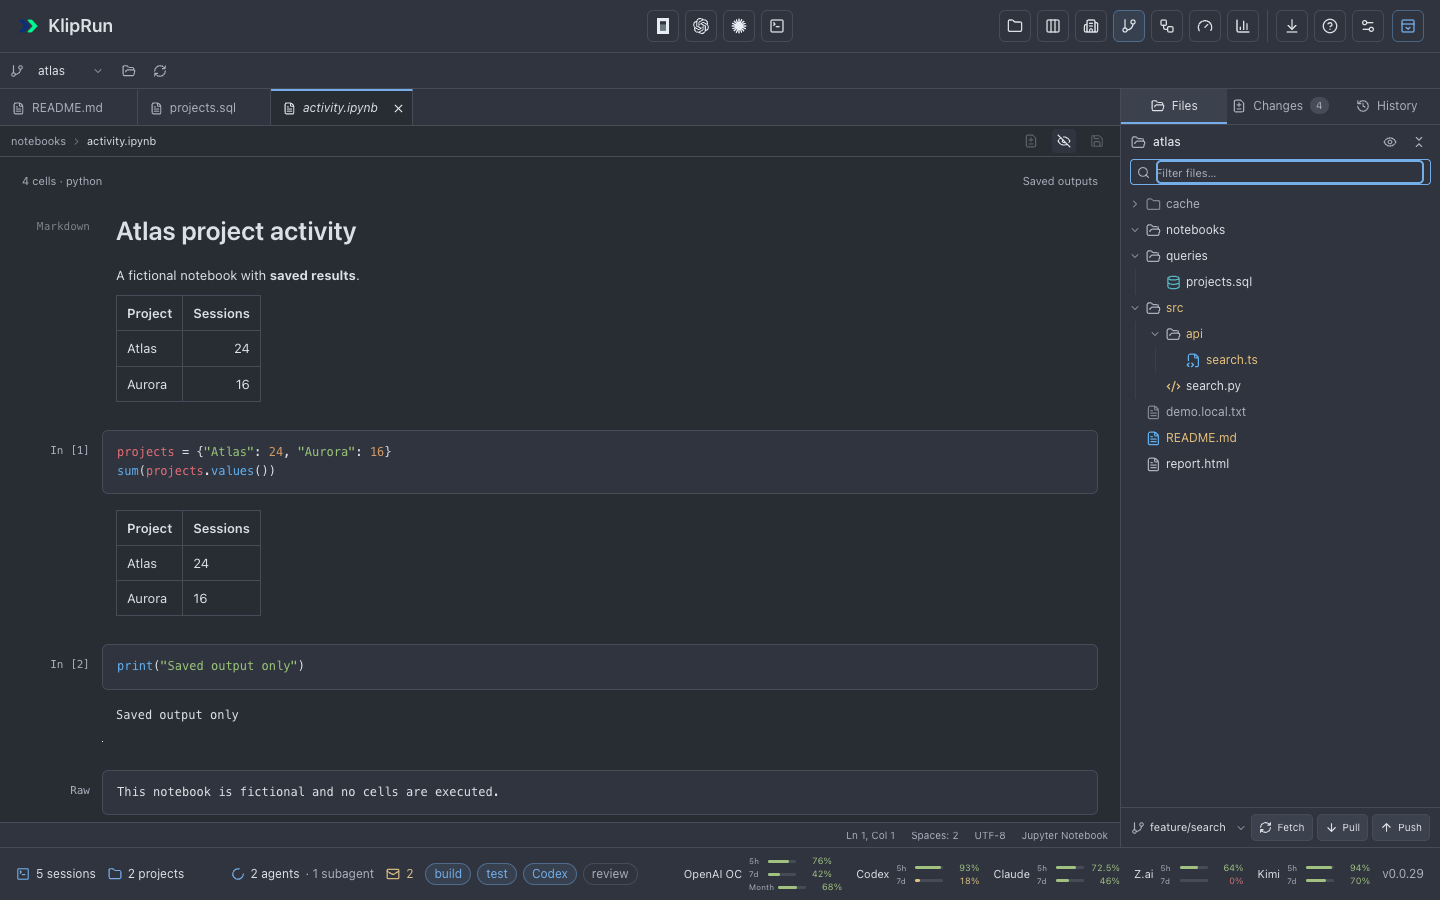
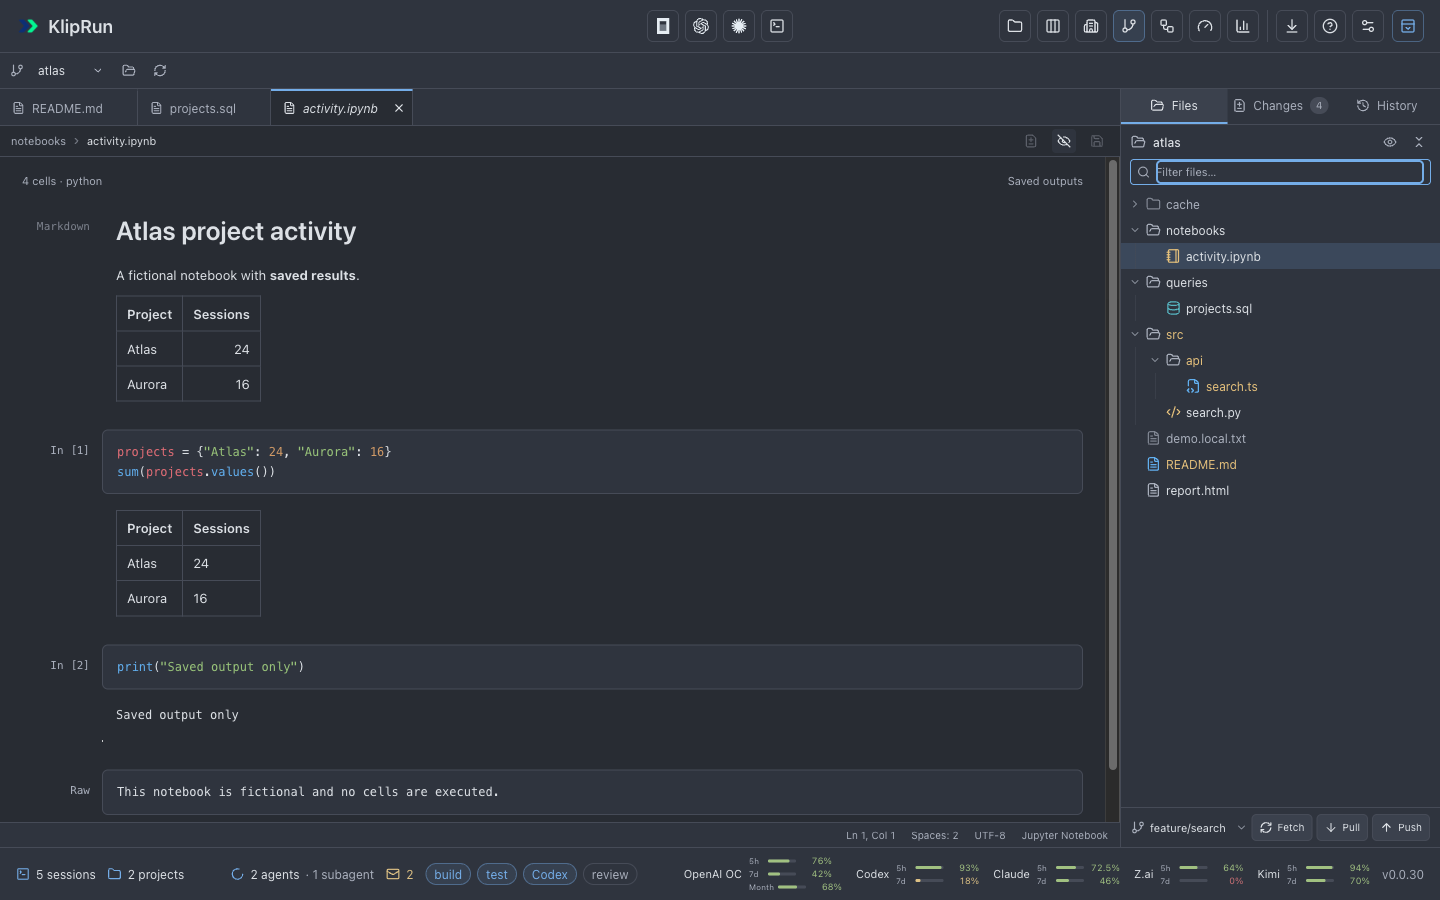
release/0.0.30: Подготовить версию и обновить скриншоты

diff --git a/docs/screenshots/capture-all.js b/docs/screenshots/capture-all.js
@@ -10,7 +10,7 @@ async (page, directory = "docs/screenshots", base = "http://127.0.0.1:18796") =>
     await page.goto(`${base}${path}`);
     if (!path.startsWith("/__demo/")) {
       await page.locator('[data-testid="version"]').waitFor();
-      if ((await page.locator('[data-testid="version"]').innerText()) !== "v0.0.29") throw new Error("Build the 0.0.29 client before capturing.");
+      if ((await page.locator('[data-testid="version"]').innerText()) !== "v0.0.30") throw new Error("Build the 0.0.30 client before capturing.");
     }
   }
   async function save(name) {

diff --git a/docs/screenshots/README.md b/docs/screenshots/README.md
@@ -1,6 +1,6 @@
 # Demo screenshots
 
-All twenty-one current screenshots were captured from **KlipRun Desktop 0.0.29** on **2026-10-19**, using Graphite. The original palette is named Midnight. Session IDs, titles, project paths, models, priority flags, Git metadata, quotas, and usage totals come only from [`mock-api.json`](mock-api.json). The preview fixes the clock to the fixture’s `board.generated_at` (2026-10-14), supplies a stub desktop bridge, and disables Office motion. No live engine, user session store, credentials, quota API, or agent process is used.
+All twenty-one current screenshots were captured from **KlipRun Desktop 0.0.30** on **2026-10-19**, using Graphite. The original palette is named Midnight. Session IDs, titles, project paths, models, priority flags, Git metadata, quotas, and usage totals come only from [`mock-api.json`](mock-api.json). The preview fixes the clock to the fixture’s `board.generated_at` (2026-10-14), supplies a stub desktop bridge, and disables Office motion. No live engine, user session store, credentials, quota API, or agent process is used.
 
 | File | Size | Example shown |
 | --- | --- | --- |
@@ -44,7 +44,7 @@ tracked exceptions in ignored folders, state restoration, selected search result
 and three window widths. It uses a fresh browser context and in-memory responses
 based on the same fictional paths; review screenshots stay in `/private/tmp`.
 
-Usage now also reads the existing statistics endpoints against that same fixture. [`../../scripts/usage-overview.test.js`](../../scripts/usage-overview.test.js) verifies history periods and source filters, composition-to-trend controls, model drilldowns, task details, seven viewport widths, a 420 px pane inside a wide viewport, the light theme, and error recovery. Its default fixture preview port is 18826. Provider balances remain separate from local token counts; cached/reset-pending providers and unavailable/empty history are checked without live credentials or session stores. All gallery images were refreshed for 0.0.29, including the Usage page.
+Usage now also reads the existing statistics endpoints against that same fixture. [`../../scripts/usage-overview.test.js`](../../scripts/usage-overview.test.js) verifies history periods and source filters, composition-to-trend controls, model drilldowns, task details, seven viewport widths, a 420 px pane inside a wide viewport, the light theme, and error recovery. Its default fixture preview port is 18826. Provider balances remain separate from local token counts; cached/reset-pending providers and unavailable/empty history are checked without live credentials or session stores. All gallery images were refreshed for 0.0.30, including the Usage page.
 
 `git.text_files["notebooks/activity.ipynb"]` is a fictional notebook with Markdown, Python cells, saved tables, text, and an embedded PNG. [`../../scripts/git-notebook.test.js`](../../scripts/git-notebook.test.js) is a Playwright callback `(page, base = "http://127.0.0.1:18796")` checking its default preview, saved outputs, JSON editing and save, invalid JSON fallback, metadata preservation, inactive HTML scripts and remote images, bounded preview of a synthetic 5 MB HTML output, lazy JSON editor creation, and layouts at 1440, 720, and 500 pixels. Its saves stay in memory.
 
@@ -80,7 +80,7 @@ Klopik skin thumbnails in `engine/src/client/public/klopik-skins/` are generated
 
 [`../../scripts/git-review-layout.test.js`](../../scripts/git-review-layout.test.js) checks the compact repository toolbar, staging controls before filenames, loaded-commit search, keyboard navigation, automatic first-file diffs, persistent close, and small layouts using fixture data without Git writes.
 
-[`capture-files.js`](capture-files.js) takes `(page, outputDirectory, fixture, base)` and captures Files, its context menu, Markdown, and Jupyter Notebook from `git.text_files` in `mock-api.json`, with all file reads intercepted and no writes. All current images were refreshed for 0.0.29.
+[`capture-files.js`](capture-files.js) takes `(page, outputDirectory, fixture, base)` and captures Files, its context menu, Markdown, and Jupyter Notebook from `git.text_files` in `mock-api.json`, with all file reads intercepted and no writes. All current images were refreshed for 0.0.30.
 
 The shortcut image includes the native File/Edit/View/Navigate/Terminal commands. `scripts/native-menus.test.js` verifies the real web command bridge using fixture files and in-memory saves, including CodeMirror history, native-menu capability updates, unsaved-state reporting, close/cancel and draft-preserving refresh. Native focus/routing and standard menu shortcuts are checked separately with Swift tests and a disposable menu probe.
 
@@ -120,3 +120,5 @@ with disposable UserDefaults and captured at 560×850 and 500×660; review captu
 stay outside the committed gallery.
 
 The 0.0.29 refresh updates all 19 existing gallery images and adds `workflow.png` and `workflow-review.png` through `capture-workflow.js`, using the workflow fixture and its in-memory executor. All 21 captures use only fixture data and make no external requests. Provider selection/order and native Settings are verified separately; the Usage gallery retains all five fixture providers.
+
+The 0.0.30 refresh recaptures all 21 gallery images with the same callbacks and fixture, changing only the displayed version. The Claude Code session-linking and journal fixes are engine-side and covered by `engine/src/server/__tests__/claude.test.ts`. All captures made zero external requests.

diff --git a/CHANGELOG.md b/CHANGELOG.md
@@ -4,6 +4,13 @@ Notable changes to KlipRun Desktop are recorded here. Versions use [Semantic Ver
 
 ## [Unreleased]
 
+## [0.0.30] - 2026-10-19
+
+### Fixed
+
+- Link Claude Code terminals to their session after `/clear` or `/resume` instead of leaving the card on "Connecting session…".
+- Ignore Claude Code slash-command and `!` shell echoes as prompts, finish interrupted turns as Interrupted, and title cards with Claude's `/rename` or AI title before the derived terminal name.
+
 ## [0.0.29] - 2026-10-19
 
 ### Added
@@ -481,4 +488,7 @@ First public macOS release.
 [0.0.25]: https://github.com/klipbn/kliprun_desktop/releases/tag/v0.0.25
 [0.0.26]: https://github.com/klipbn/kliprun_desktop/releases/tag/v0.0.26
 [0.0.27]: https://github.com/klipbn/kliprun_desktop/releases/tag/v0.0.27
-[Unreleased]: https://github.com/klipbn/kliprun_desktop/compare/v0.0.27...main
+[0.0.28]: https://github.com/klipbn/kliprun_desktop/releases/tag/v0.0.28
+[0.0.29]: https://github.com/klipbn/kliprun_desktop/releases/tag/v0.0.29
+[0.0.30]: https://github.com/klipbn/kliprun_desktop/releases/tag/v0.0.30
+[Unreleased]: https://github.com/klipbn/kliprun_desktop/compare/v0.0.30...main

diff --git a/README.md b/README.md
@@ -35,7 +35,7 @@ use **Kanban** in this toolbar to return to the board.
 
 Requires **Apple Silicon and macOS 13+**.
 
-1. Download `KlipRun-0.0.29-macos-arm64.zip` from the [latest release](https://github.com/klipbn/kliprun_desktop/releases/latest).
+1. Download `KlipRun-0.0.30-macos-arm64.zip` from the [latest release](https://github.com/klipbn/kliprun_desktop/releases/latest).
 2. Unzip and move `KlipRun.app` to **Applications**. Quit KlipRun before replacing an older version.
 3. Open the app. If macOS blocks it, use **System Settings → Privacy & Security → Open Anyway**. The build is locally signed and not notarized.
 
